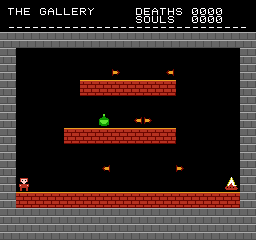
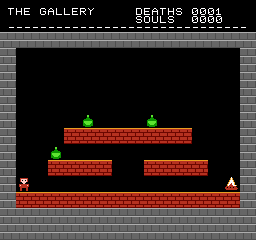
LIAR'S KEEP: rooms 3, 4 and 5 had prizes nobody could reach
Playtest found three of them and the solver could not see any: it was only
asking whether the bonfire was reachable, and in all three rooms it was. The
flasks were not, so the rooms finished fine and read as broken.

reach.py now tracks every cell the hero passes through, not just the ones he
lands on, and judges flasks on the stricter of two bars. A flask outside the
path cannot be had at all. A flask that is only ever brushed can be had, but by
a maximum-height jump from one exact spot, which in the hand is
indistinguishable from impossible and is what the report actually described.
The bar is now: stand in its cell, or stand directly under it. With that in
place the tool reproduces all three complaints and one more nobody had reached
yet, where a flask sat next to the bonfire so that landing beside it ended the
room before you could take it.

The rooms:

- THE GALLERY was a corridor with decorative gunfire in it. Its shooters sat in
  the rows of the floors rather than the rows the player stands in, so every
  dart passed overhead, and its platforms were three rows apart so none of them
  could be climbed. Rebuilt as three tiers two rows apart with the shooters at
  head height; standing still on the floor now costs three deaths in as many
  seconds.
- THE MILL asked for two frame-perfect jumps onto single blocks. Three-block
  ledges with one-block gaps, and the difficulty moved into a liar on the last
  approach where it belongs.
[…]

diff --git a/roms/liars-keep/tools/reach.py b/roms/liars-keep/tools/reach.py
@@ -234,9 +234,26 @@ def standable(room, bx, by):
     return room.solid(bx * 16 + 8, PLAY_TOP + (by + 1) * 16 + 8)
 
 
+def cells_under(h):
+    """Every grid cell the hero's box is overlapping right now. A flask is
+    collected by touching it, not by landing on it, so this is what decides
+    whether one is gettable."""
+    out = set()
+    for ox in (HB_L, HB_R):
+        for oy in (HB_T, HB_B):
+            py = h.py() + oy
+            if py < PLAY_TOP:
+                continue
+            row = (py - PLAY_TOP) >> 4
+            if row < GRID_H:
+                out.add(((h.px() + ox) >> 4, row))
+    return out
+
+
 def outcomes(room, bx, by):
-    """Every cell he can be standing in after one departure from this one."""
-    found = set()
+    """Every cell he can be standing in after one departure from this one, and
+    every cell he passes through on the way."""
+    found, brushed = set(), set()
     for dx, run, hold in PLANS:
         h = Hero(bx * 16, PLAY_TOP + by * 16)
         h.vx = run * WALK_MAX
@@ -247,6 +264,7 @@ def outcomes(room, bx, by):
             t = h.touching(room)
             if t & BF_HAZARD:
                 break
+            brushed |= cells_under(h)
             if t & BF_GOAL:
                 found.add(("GOAL",))
                 break
@@ -257,7 +275,7 @@ def outcomes(room, bx, by):
                 if cell != (bx, by):
                     found.add(cell)
                     break
-    return found
+    return found, brushed
 
 
 def solve(room):
@@ -267,16 +285,18 @@ def solve(room):
     start = room.spawn
     while start[1] + 1 < GRID_H and not standable(room, *start):
         start = (start[0], start[1] + 1)
-    seen, queue, won = {start}, [start], False
+    seen, queue, won, brushed = {start}, [start], False, set()
     while queue:
         cell = queue.pop()
-        for nxt in outcomes(room, *cell):
+        landings, passed = outcomes(room, *cell)
+        brushed |= passed
+        for nxt in landings:
             if nxt == ("GOAL",):
                 won = True
             elif nxt not in seen and 0 <= nxt[0] < GRID_W and 0 <= nxt[1] < GRID_H:
                 seen.add(nxt)
                 queue.append(nxt)
-    return won, seen
+    return won, seen, brushed
 
 
 # The cartridge keeps room 6 within one entity of this, so it is worth saying
@@ -293,25 +313,48 @@ def main():
         if want is not None and num != want:
             continue
         room = Room(grid)
-        won, seen = solve(room)
+        won, seen, brushed = solve(room)
         ents = sum(row.count(c) for row in grid for c in SPAWNERS)
-        mark = "OK  " if won else "DEAD"
-        if not won:
+        # A flask you cannot possibly touch is not a hard flask, it is a bug
+        # that looks like content, and it is the single easiest mistake to make
+        # in this format: the bait goes where it reads well, not where the jump
+        # arc goes.
+        # Two bars, because they are different failures. A flask outside
+        # `brushed` cannot be had at all. A flask that is only in `brushed` can
+        # be had, but by a maximum-height jump from one exact spot, which in
+        # the hand feels the same as impossible and is what the playtest
+        # actually complained about. The bar is: stand in its cell, or stand
+        # directly under it, and the rest of the risk comes from what is below.
+        flasks = [(bx, by) for by in range(GRID_H) for bx in range(GRID_W)
+                  if grid[by][bx] == "B"]
+        lost = [c for c in flasks if c not in brushed]
+        awkward = [c for c in flasks
+                   if c in brushed and c not in seen and (c[0], c[1] + 1) not in seen]
+        mark = "OK  " if won and not lost and not awkward else "DEAD"
+        if not won or lost or awkward:
             bad += 1
-        print("%s room %d  %-14s  %d cells reachable of %d standable, %d/%d entities"
+        print("%s room %d  %-14s  %d cells reachable of %d standable, %d/%d entities, %d/%d flasks"
               % (mark, num, name, len(seen),
                  sum(standable(room, x, y) for y in range(GRID_H) for x in range(GRID_W)),
-                 ents, ENT_MAX))
+                 ents, ENT_MAX, len(flasks) - len(lost) - len(awkward), len(flasks)))
+        if not won:
+            print("      the bonfire cannot be reached")
+        for bx, by in lost:
+            print("      the flask at column %d row %d cannot be touched at all" % (bx, by))
+        for bx, by in awkward:
+            print("      the flask at column %d row %d needs a maximum jump from one"
+                  " exact spot" % (bx, by))
         if ents > ENT_MAX:
             print("      room %d asks for %d entities and only %d will spawn"
                   % (num, ents, ENT_MAX))
-            bad += 1
-        if not won or os.environ.get("SHOW"):
+        if not won or lost or awkward or os.environ.get("SHOW"):
             # Print the room with the reachable cells marked, which is the whole
             # diagnosis: you can see exactly where the search ran out of floor.
             for by in range(GRID_H):
                 row = "".join(
-                    ("o" if (bx, by) in seen and grid[by][bx] == "." else grid[by][bx])
+                    ("o" if (bx, by) in seen and grid[by][bx] == "."
+                     else "," if (bx, by) in brushed and grid[by][bx] == "."
+                     else grid[by][bx])
                     for bx in range(GRID_W))
                 print("      " + row)
     if bad:

diff --git a/roms/liars-keep/README.md b/roms/liars-keep/README.md
@@ -37,7 +37,7 @@ checked rather than believed. See `tools/reach.py` below.
 | ![Patience](screenshots/2-patience.png) | **2. Patience.** Nothing in this room is hidden. The cracked floor is visibly cracked and gives you about a third of a second; the crusher shudders before it commits. It kills people anyway, because a fair amount of warning turns out to be shorter than it feels. |
 | ![The Gallery](screenshots/3-gallery.png) | **3. The Gallery.** The walls shoot. Which wall block is a shooter is not marked, and each one takes its firing phase from where it sits in the grid, so they never fall into one safe rhythm. |
 | ![The Mill](screenshots/4-mill.png) | **4. The Mill.** A saw works out its own patrol by looking left and right along its row until it finds something solid. Draw it a longer corridor and it patrols a longer corridor. Which way it sets off comes from the column it was drawn in, so a room full of them gets saws that cross instead of saws in convoy. |
-| ![Generosity](screenshots/5-generosity.png) | **5. Generosity.** Six flasks, laid out like a reward for exploring. Most of them are over something. |
+| ![Generosity](screenshots/5-generosity.png) | **5. Generosity.** Seven flasks up four tiers, laid out like a reward for exploring. Every one of them is reachable, and most of them are over something. |
 | ![The Last Lie](screenshots/6-last-lie.png) | **6. The Last Lie.** The bonfire is visible from the start and the floor runs all the way to it. |
 
 ## A room is a picture
@@ -122,9 +122,27 @@ correctly right up until nobody can finish the level. When a room fails, the
 tool prints it with the reachable cells marked, so you can see where the floor
 ran out.
 
+It checks the flasks too, and at a higher bar than the bonfire: not merely
+"could the box ever overlap it" but "can you stand in its cell, or directly
+under it". The looser test passes for a flask that needs a maximum-height jump
+from one exact spot, and in the hand that is indistinguishable from impossible.
+The first playtest found three rooms with flasks nobody could get; this now
+finds them before anybody has to.
+
 It does not model saws, crushers or darts. Those decide whether a room is hard.
 This answers the different and more important question of whether it is
 possible, which is a property of the walls alone.
+
+## Two rules that cost a playtest each
+
+**Platforms go two rows apart, never three.** Standing on a block puts you in
+the row above it and the jump clears 36 pixels, so row 8 to row 6 works and row
+8 to row 5 does not. Four of the six rooms in the first draft broke this.
+
+**A shooter goes in the row the player occupies**, not the row of the floor
+they stand on. Its dart leaves at its own height, so a `>` drawn one row too
+high sails over everybody's head and the room becomes a corridor with
+decorative gunfire in it.
 
 ## Building it
 
